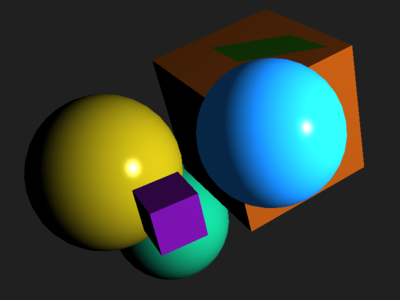
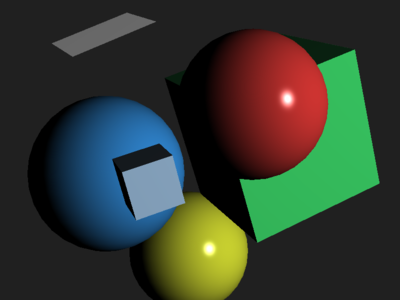
picking: less i-am-vomiting-from-my-eyes colors, link to online demo.

diff --git a/src/picking/PickingExample.cpp b/src/picking/PickingExample.cpp
@@ -237,21 +237,21 @@ PickingExample::PickingExample(const Arguments& arguments): Platform::Applicatio
     }
 
     /* Set up objects */
-    (*(_objects[0] = new PickableObject{1, _shader, Color3::fromHsv(25.0_degf, 0.9f, 0.9f), _cube, _scene, _drawables}))
+    (*(_objects[0] = new PickableObject{1, _shader, 0x3bd267_rgbf, _cube, _scene, _drawables}))
         .rotate(34.0_degf, Vector3(1.0f).normalized())
         .translate({1.0f, 0.3f, -1.2f});
-    (*(_objects[1] = new PickableObject{2, _shader, Color3::fromHsv(54.0_degf, 0.9f, 0.9f), _sphere, _scene, _drawables}))
+    (*(_objects[1] = new PickableObject{2, _shader, 0x2f83cc_rgbf, _sphere, _scene, _drawables}))
         .translate({-1.2f, -0.3f, -0.2f});
-    (*(_objects[2] = new PickableObject{3, _shader, Color3::fromHsv(105.0_degf, 0.9f, 0.9f), _plane, _scene, _drawables}))
-        .rotate(254.0_degf, Vector3(1.0f).normalized())
+    (*(_objects[2] = new PickableObject{3, _shader, 0xdcdcdc_rgbf, _plane, _scene, _drawables}))
+        .rotate(278.0_degf, Vector3(1.0f).normalized())
         .scale(Vector3(0.45f))
-        .translate({0.5f, 1.3f, 1.5f});
-    (*(_objects[3] = new PickableObject{4, _shader, Color3::fromHsv(162.0_degf, 0.9f, 0.9f), _sphere, _scene, _drawables}))
+        .translate({-1.0f, 1.2f, 1.5f});
+    (*(_objects[3] = new PickableObject{4, _shader, 0xc7cf2f_rgbf, _sphere, _scene, _drawables}))
         .translate({-0.2f, -1.7f, -2.7f});
-    (*(_objects[4] = new PickableObject{5, _shader, Color3::fromHsv(210.0_degf, 0.9f, 0.9f), _sphere, _scene, _drawables}))
+    (*(_objects[4] = new PickableObject{5, _shader, 0xcd3431_rgbf, _sphere, _scene, _drawables}))
         .translate({0.7f, 0.6f, 2.2f})
         .scale(Vector3(0.75f));
-    (*(_objects[5] = new PickableObject{6, _shader, Color3::fromHsv(280.0_degf, 0.9f, 0.9f), _cube, _scene, _drawables}))
+    (*(_objects[5] = new PickableObject{6, _shader, 0xa5c9ea_rgbf, _cube, _scene, _drawables}))
         .rotate(-92.0_degf, Vector3(1.0f).normalized())
         .scale(Vector3(0.25f))
         .translate({-0.5f, -0.3f, 1.8f});
